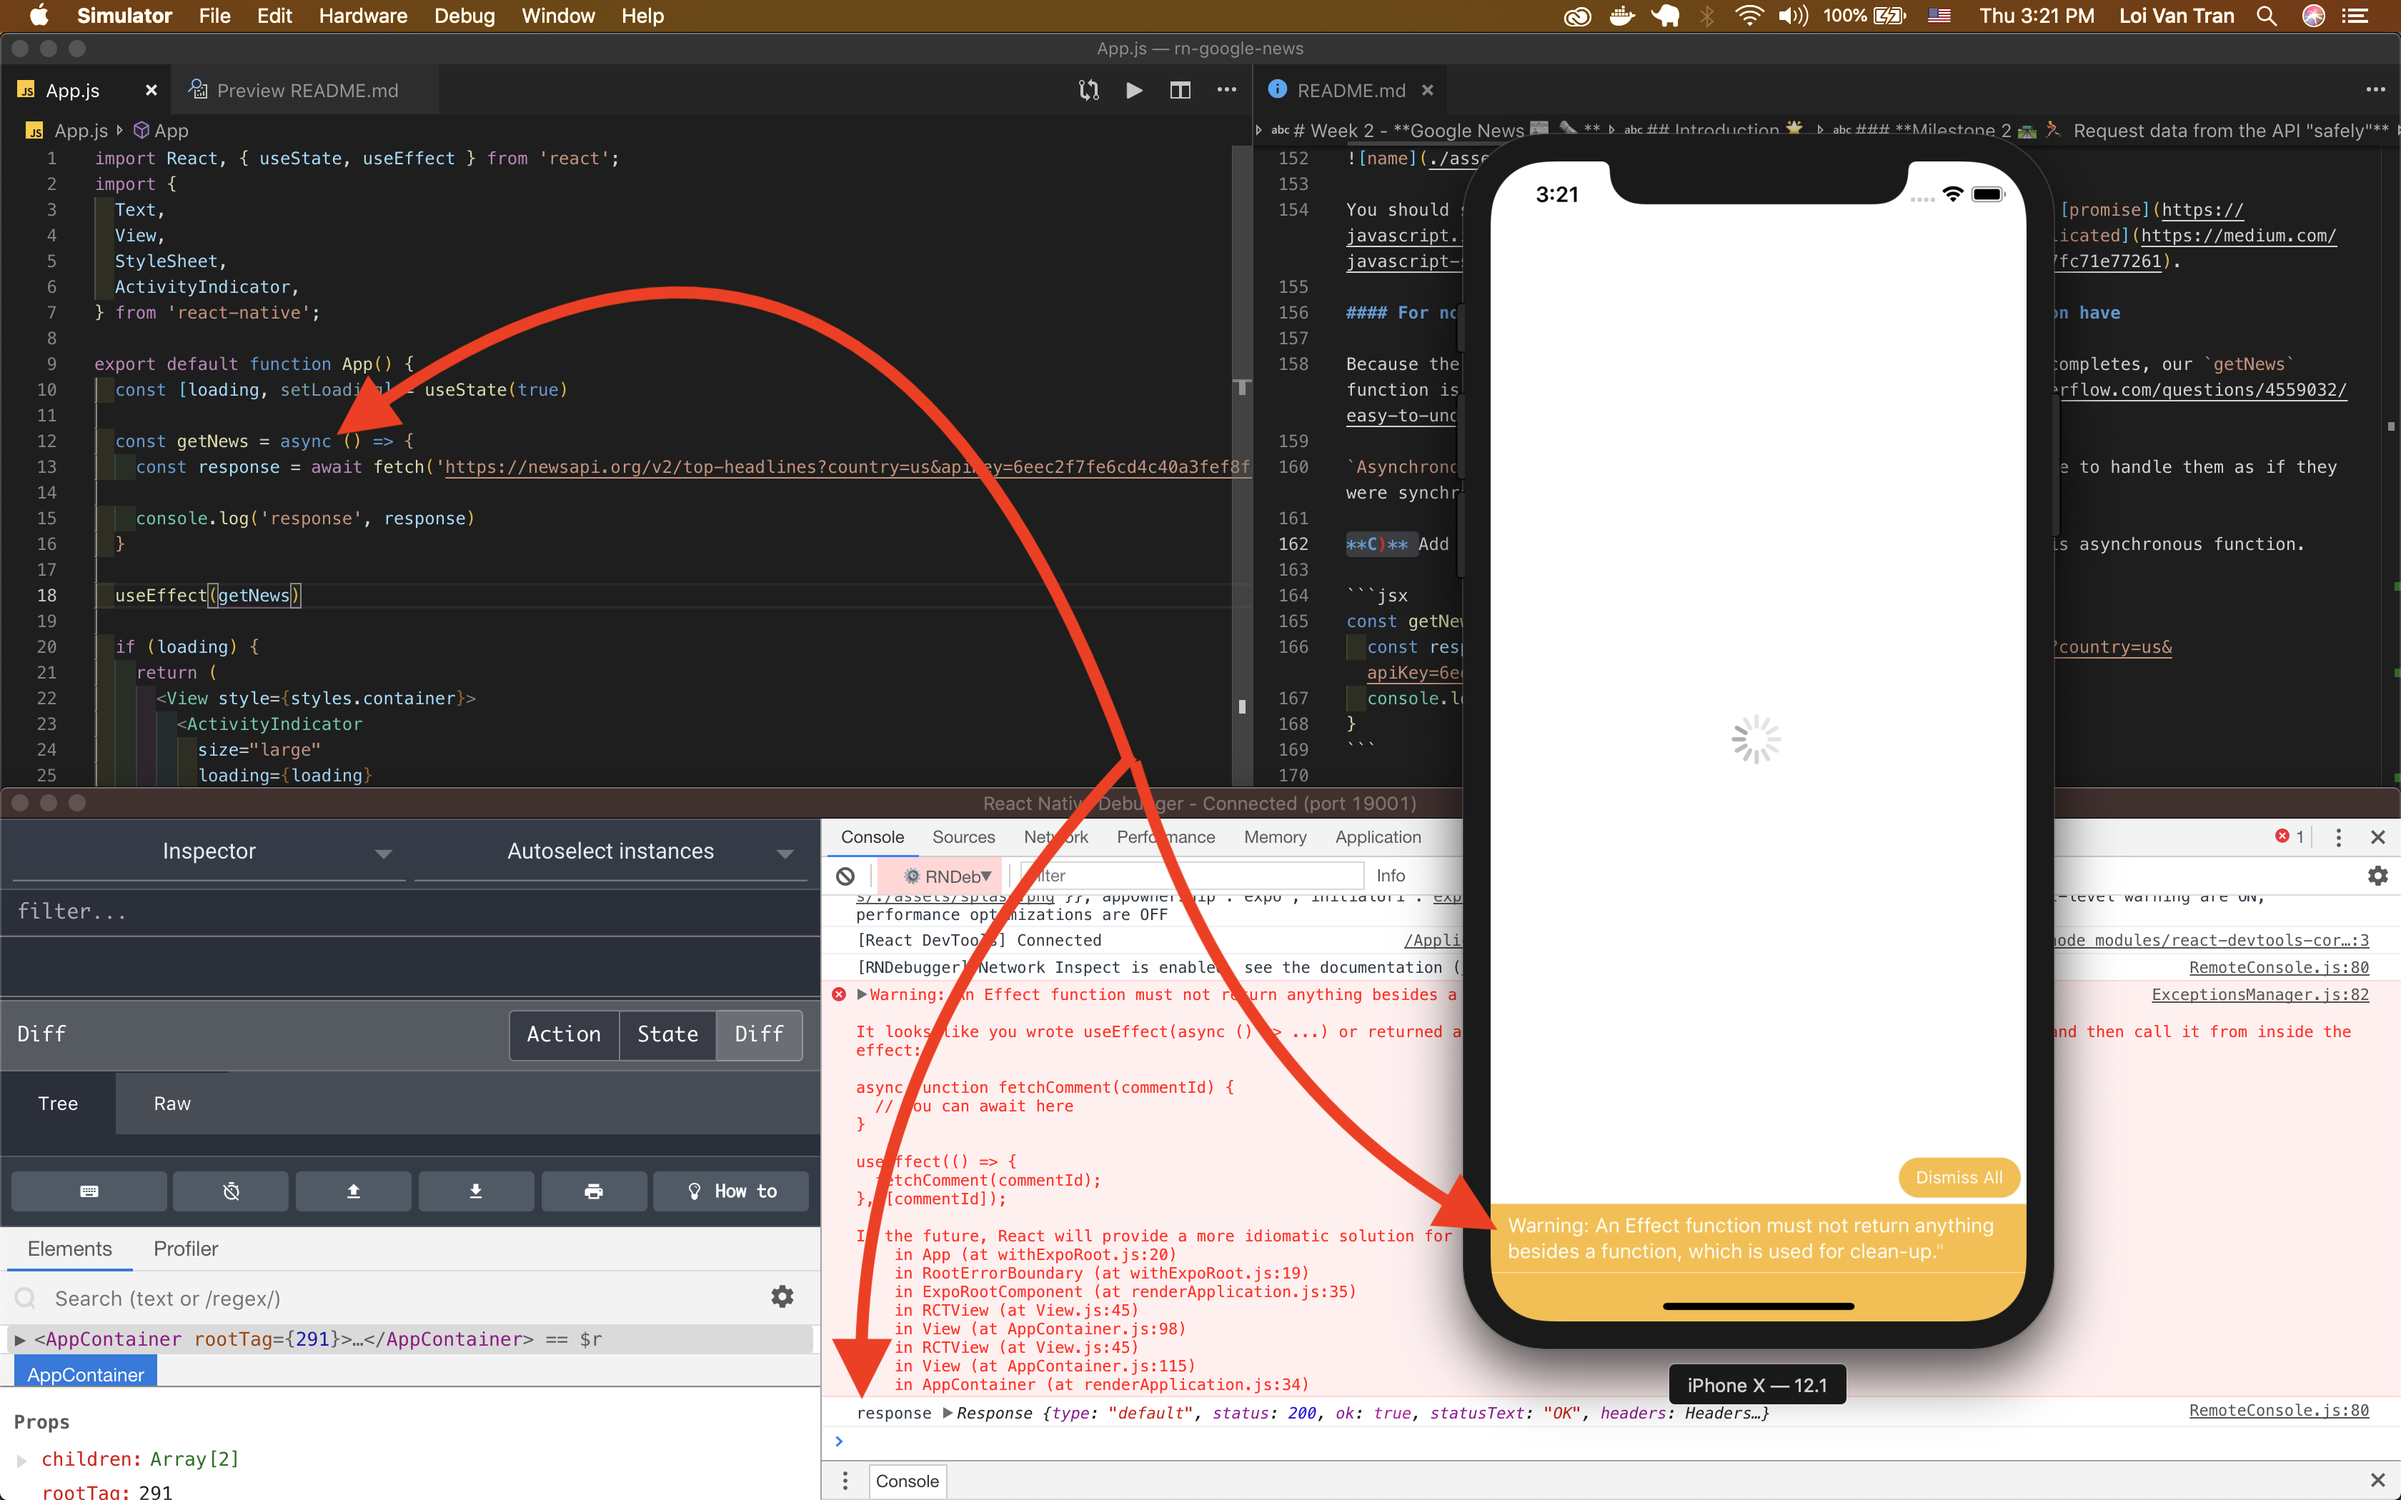
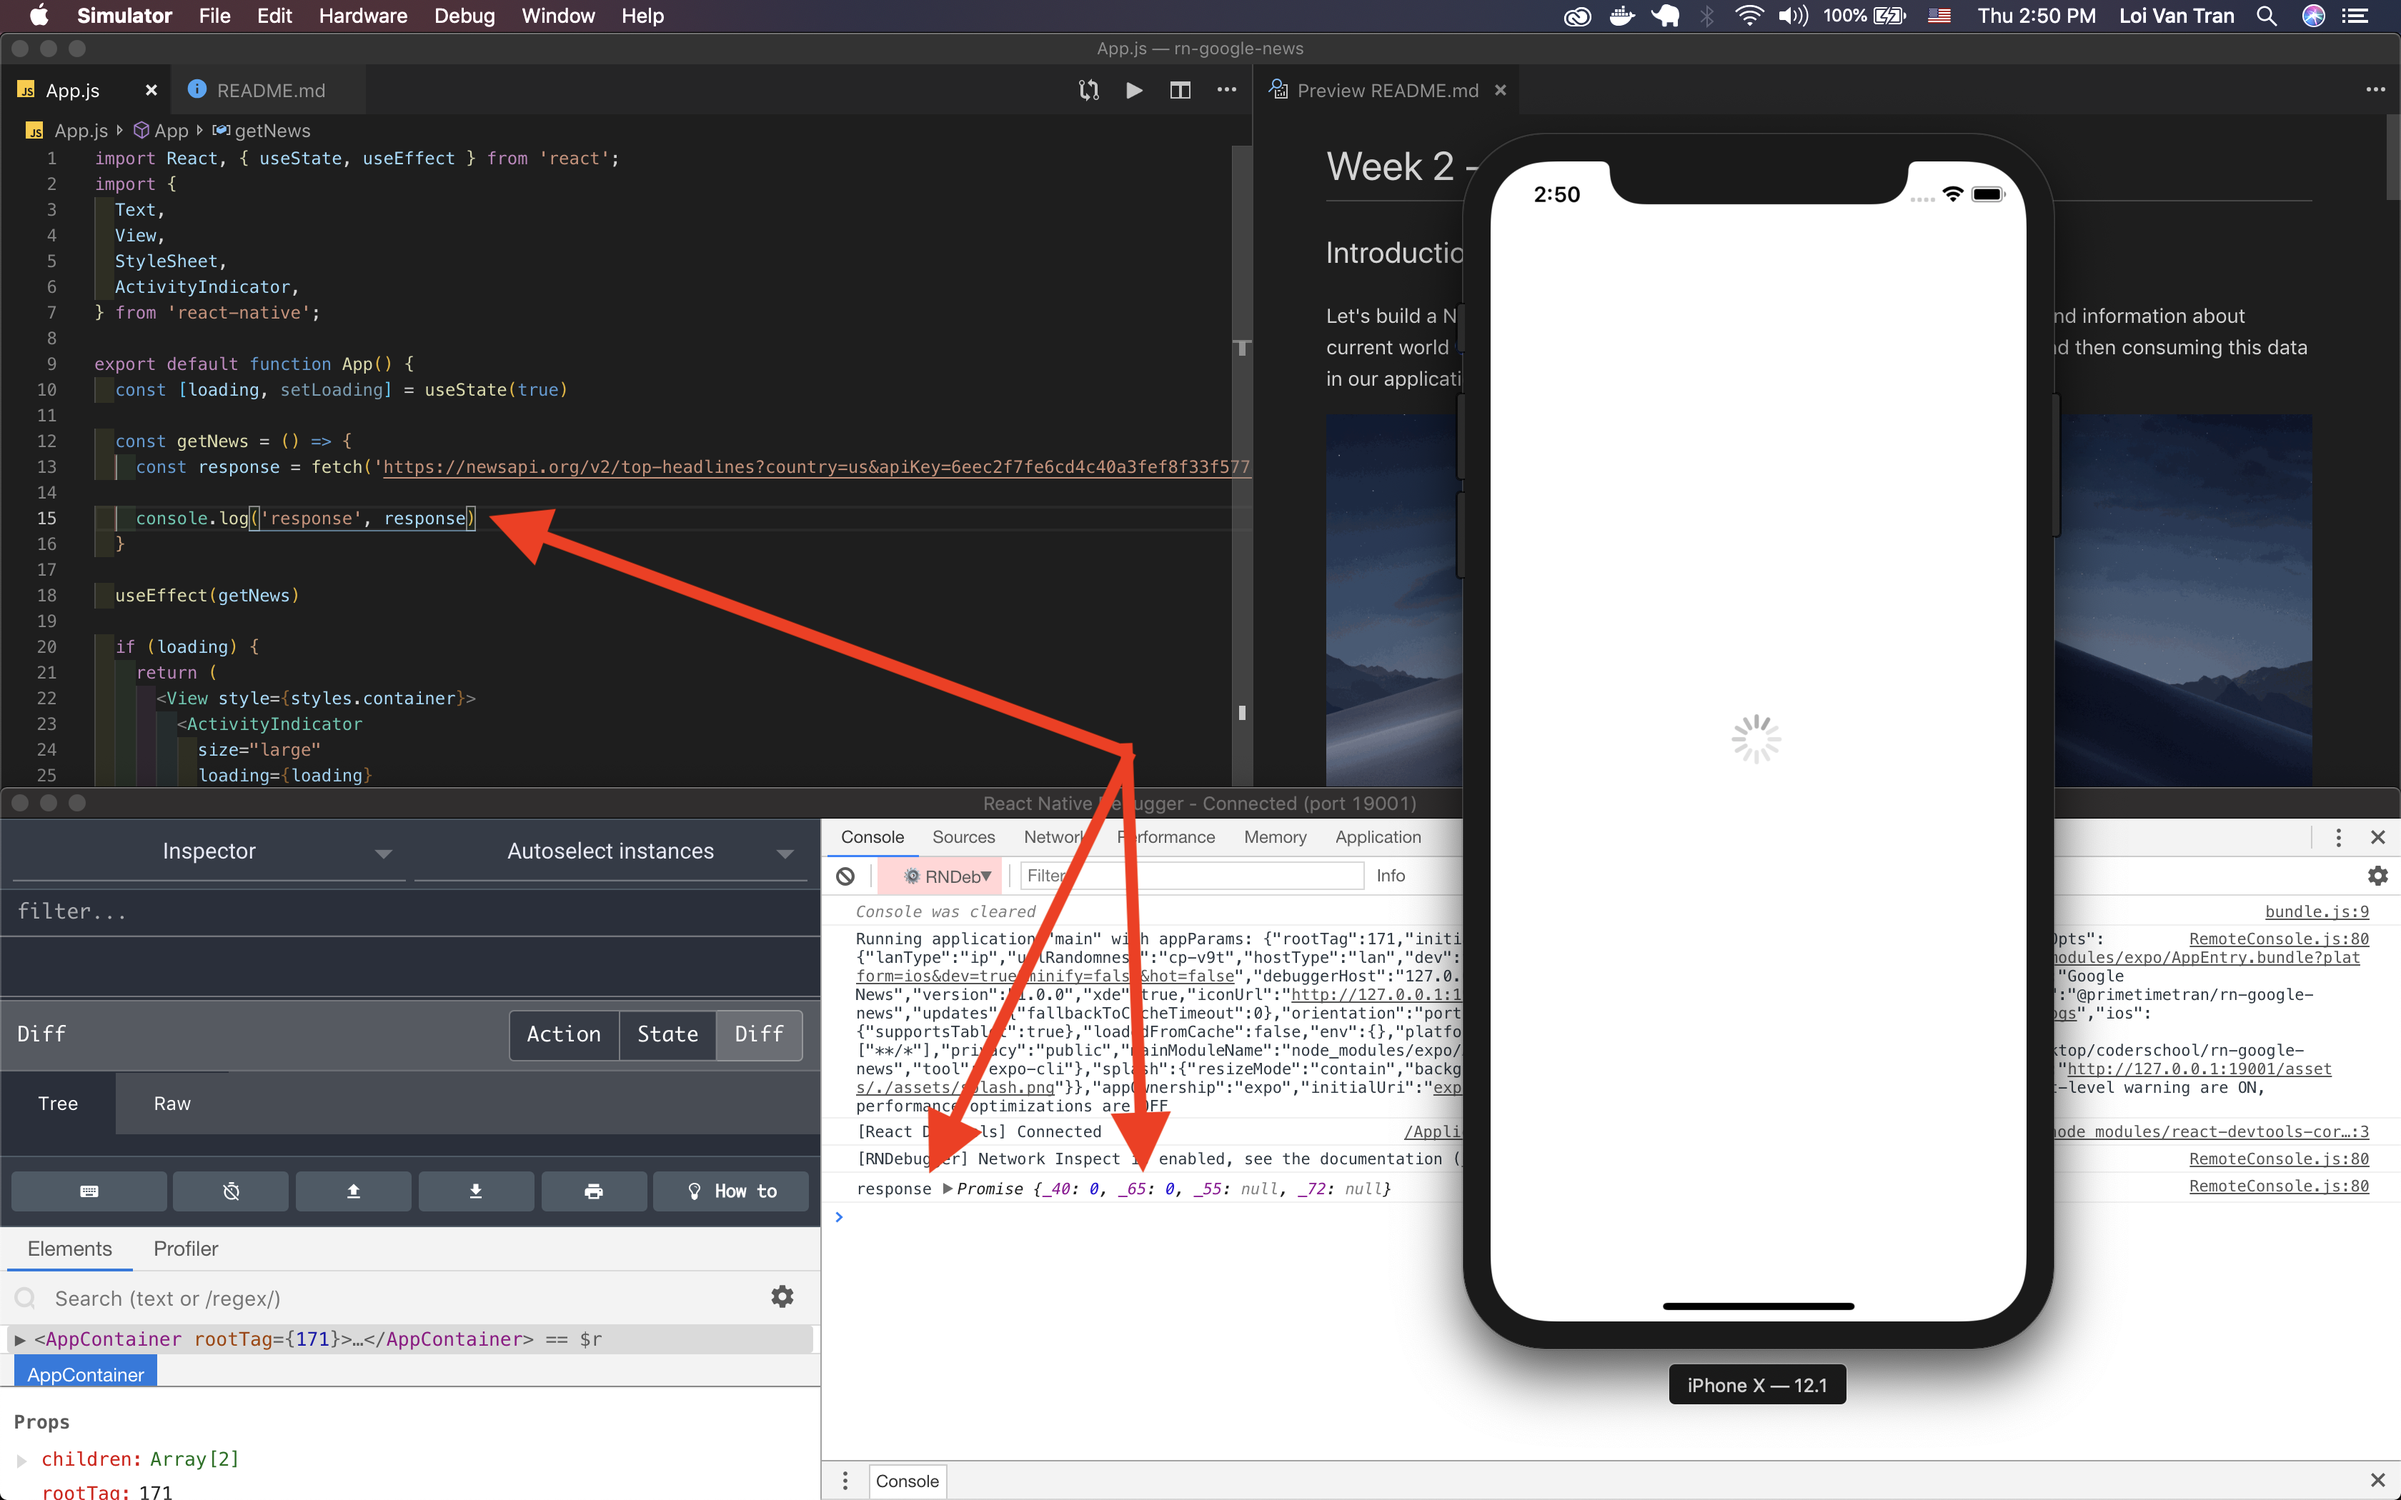
Update readme

diff --git a/README.md b/README.md
@@ -2,7 +2,7 @@
 
 ## Introduction 🌟
 
-Let's build a News app 📱 using [React Native](https://facebook.github.io/react-native/) & [Expo](https://expo.io/).  Our app will help users find information about current world 🌎 events. We'll do so by requesting data from a 3rd party API and then consuming this data in our application.
+Let's build a news 📰 app 📱 using [React Native](https://facebook.github.io/react-native/) & [Expo](https://expo.io/).  Our app will help users find information about current world 🌎 events. We'll do so by requesting data from a 3rd party API and then consuming this data in our application.
 
 ![pwd](./assets/intro.gif)
 
@@ -17,23 +17,26 @@ Let's build a News app 📱 using [React Native](https://facebook.github.io/reac
 
 ### Learning Objectives ✍📚📝 
 
-1. Learn how to `fetch` data from an API. [Detailed explanation](https://www.robinwieruch.de/react-fetching-data/).
-    - Recognize that it requires a few steps. `async`, `await`, `fetch()`, and `json()`.
+1. Learn how to `fetch()` data from an API.
+    - Recognize it **takes time**. These steps will use new JS functions we haven't used before.
+      - `fetch('http://api.myapp.com)` - 1st argument is endpoint.
+      - `json()` - Used to **parse to JS** object.
 
-2. Learn what `async` & `await` are used for.
+2. Learn what `async` & `await` are used for. [Read detailed](https://alligator.io/js/async-functions/).
     - Recognize they're used to make asynchronous.
-      - [Read more about asynchronous functions](https://alligator.io/js/async-functions/).
+      - `async` - Tells JS that a function is **asynchronous**.
+      - `await` - Tells JS that this line will take a few moments.
 
 3. Learn what `try` & `catch` are used for.
     - Recognize they're used to handle failures in API requests.
 
 4. Learn what an open source library is and how to use them in our work.
-    - Recognize **React Native Elements** & **Moment** are two of millions of free libraries publically available.
+    - Recognize **[React Native Elements](https://github.com/react-native-training/react-native-elements)** & **[Moment](https://momentjs.com/docs/)** are two of millions of free libraries publically available.
 
 5. Learn how to render `n` items to the screen efficiently.
     - Recognize this is such a common requirement that React Native provides the component `FlatList` for this usecase.
 
-> **Tip** 💡: Almost all apps use data fetched from an API. Work slowly and think about the implications of each step.
+> **Tip** 💡: Almost all apps use data fetched from an API. Work slowly through this lab to make sure you understand each step and why they're required.
 
 ### **Milestone 1 🛣🏃 Set up initial state of loading**
 
@@ -57,7 +60,7 @@ import {
 } from 'react-native';
 ```
 
-**D)** Define the `loading` variable, `setter` method, and initial value of `loading` in the `App` component's body as `true`.
+**D)** Define the `loading` variable/state, `setter` method, and initial value of `loading` in the `App` component's body as `true`.
 
 ```jsx
 const [loading, setLoading] = useState(true)
@@ -100,7 +103,7 @@ We should now see that there's a spinner when the app loads. Excellent.
 
 ---
 
-### **Milestone 2 🛣🏃 Request data from the API "safely"**
+### **Milestone 2 🛣🏃 Request data from the API**
 Now we need to get the news articles data. We'll do so by using a combination of Javascript's `fetch`, `try`, `catch`, `async`, & `await` functions.
 
 **A)** Get required api key.
@@ -130,7 +133,7 @@ const getNews = () => {
 }
 ```
 
-3. Fire the `getNews` function when the component mounts. I advise adding `console.log` to it's body to confirm our expectations. We need to call `useEffect()` with the function we want to fire on app load, `getNews`.
+3. Fire the `getNews` function when the component mounts. I advise adding `console.log` to it's body to confirm whether or not it has fired. We also need to call `useEffect()` with the function we want to fire on app load, `getNews`.
 
 ```jsx
 useEffect(getNews)
@@ -147,19 +150,19 @@ const getNews = () => {
 
 You should now see what you console.logged in your debugging console.
 
-**B)** Checkout the data we got from the `fetch` request by console.logging the `response` you get back from the API.
+**C)** Checkout the data we got from the `fetch` request by console.logging the `response` you get back from the API.
 
-![name](./assets/2b1.png)
+![name](./assets/2c.png)
 
-You should see something like this in your console. This is called a [promise](https://javascript.info/promise-basics). Promises can become [much more complicated](https://medium.com/javascript-scene/master-the-javascript-interview-what-is-a-promise-27fc71e77261).
+You should see something like this in your console. This is called a [Promise](https://javascript.info/promise-basics). Promises can become [much more complicated](https://medium.com/javascript-scene/master-the-javascript-interview-what-is-a-promise-27fc71e77261).
 
 #### For now, just understand that a promise is data that we will soon have
 
-Because the `fetch` request takes **some amount of time** before it completes, our `getNews` function is classified as an [asynchronous function](https://stackoverflow.com/questions/4559032/easy-to-understand-definition-of-asynchronous-event).
+Because the `fetch` request takes **some amount of time** before it completes, our `getNews` function is constitutes what is known as an [asynchronous function](https://stackoverflow.com/questions/4559032/easy-to-understand-definition-of-asynchronous-event).
 
 `Asynchronous` functions are so common that JS provides us a technique to handle them as if they were synchronous.
 
-**C)** Add `async` & `await` to our function definition to handle this asynchronous function.
+**D)** Add `async` & `await` to our function definition to handle the `Promise`.
 
 ```jsx
 const getNews = async () => {
@@ -169,27 +172,31 @@ const getNews = async () => {
 }
 ```
 
-You should now see this complaint despite the fact we got our data.
+#### You should now see this complaint despite the fact we got our data.
+
+![name](./assets/2d.png)
 
 ```chrome
 An Effect function must not return anything besides a function, which is used for clean-up.
 ```
 
-![name](./assets/2c.png)
 
-**D)** Update our `useEffect()` function call.
+
+**E)** Update our `useEffect()` function call to get rid of this warning. [Read more here](https://overreacted.io/a-complete-guide-to-useeffect/) if you want to understand what's going on. Be warned, it's for advanced React developers.
 
 ```jsx
 useEffect(() => {
   getNews()
-}, [getNews])
+}, [])
 ```
 
-![name](./assets/2d.png)
+![name](./assets/2e.png)
 
-Now we'll see that the complaint from React goes away. This is a advanced concept we'll skip for now but it will probably useful for you to understand it in the future. Read more [here](https://overreacted.io/a-complete-guide-to-useeffect/).
+Now we'll see that the complaint from React goes away.
 
-**E)** Use `json()` to parse the response. Add another `await` because response is a promise which we need to wait on!
+We've almost got the data we need. We just need to do one more step.
+
+**F)** Use `json()` to parse the response. Add another `await` because response is a promise which we need to wait on!
 
 ```jsx
 const getNews = async () => {
@@ -204,13 +211,13 @@ const getNews = async () => {
 
 ![name](./assets/data.gif)
 
-**F)** Define a new piece of state, `articles`, to hold the data we get from the API. It's initial state is an empty array because it will eventually hold an array of data and we should make sure the datatype is consistent.
+**G)** Define a new piece of state, `articles`, to hold the data we get from the API. It's initial state is an empty array because it will eventually hold an array of data and we should make sure the datatype is consistent.
 
 ```jsx
 const [articles, setArticles] = useState([])
 ```
 
-**G)** Refactor `getNews` to set the state of articles once the request has succedded.
+**H)** Refactor `getNews` to set the state of articles once the request has succedded.
 
 ```jsx
 const getNews = async () => {
@@ -227,7 +234,7 @@ You'll now see that now we're causing an [infinite loop](https://en.wikipedia.or
 
 The reason this is occuring is because our hook fires when the component mounts, afterwards it updates state. The result of an update to our component's state is that our hook fires again; thus, the infinite loop.
 
-**G)** Update the `useEffect()` to **not cause** the infinite loop.
+**I)** Update the `useEffect()` to **not cause** the infinite loop.
 
 ```jsx
 useEffect(() => {
